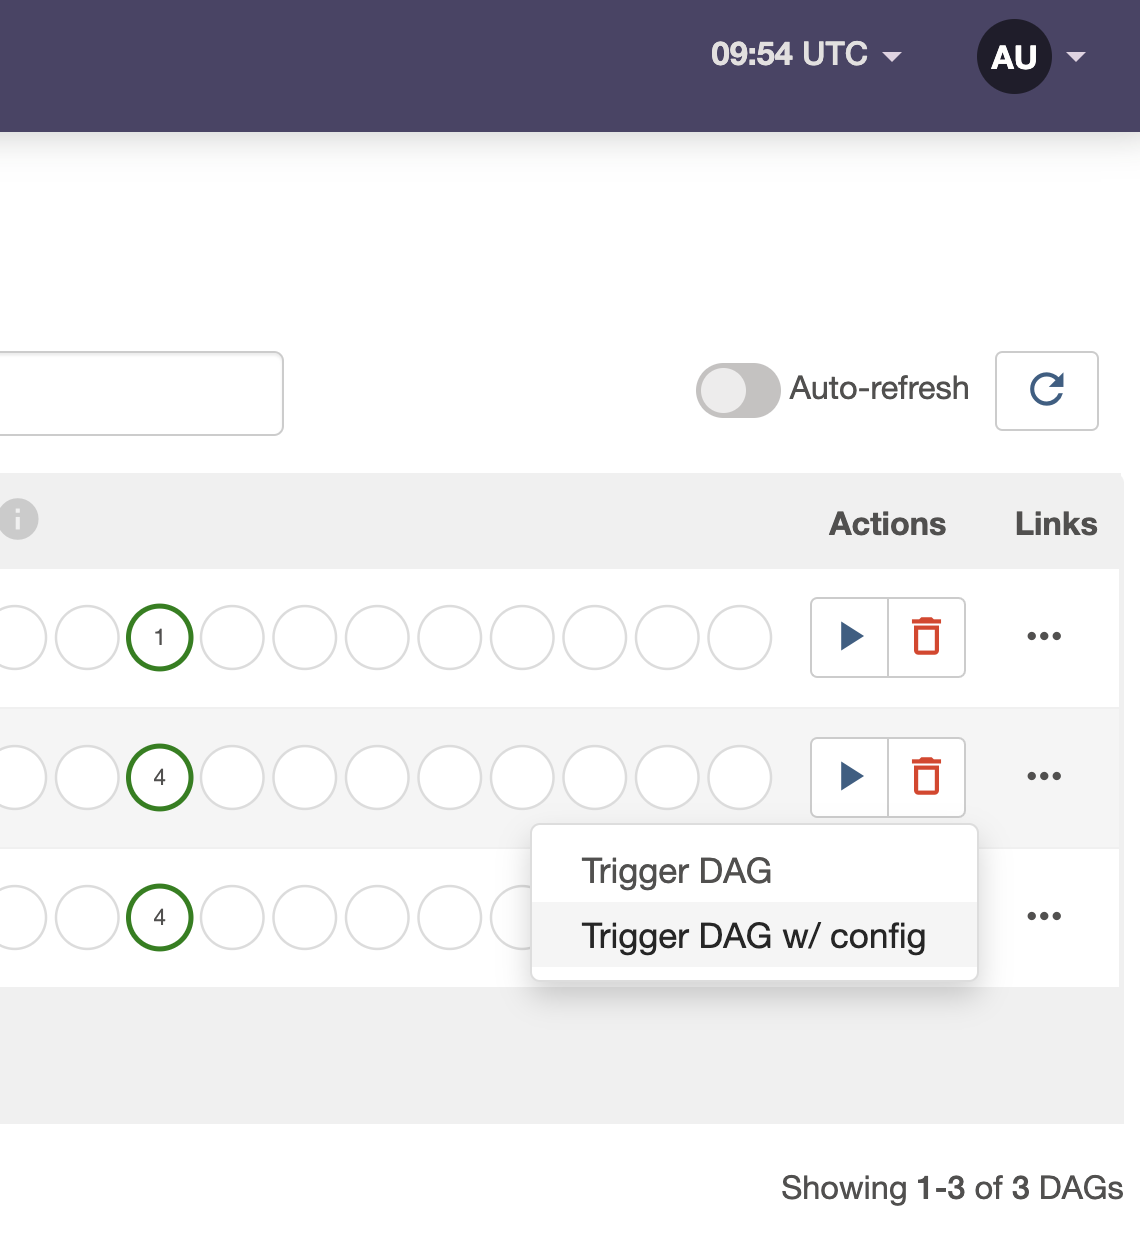
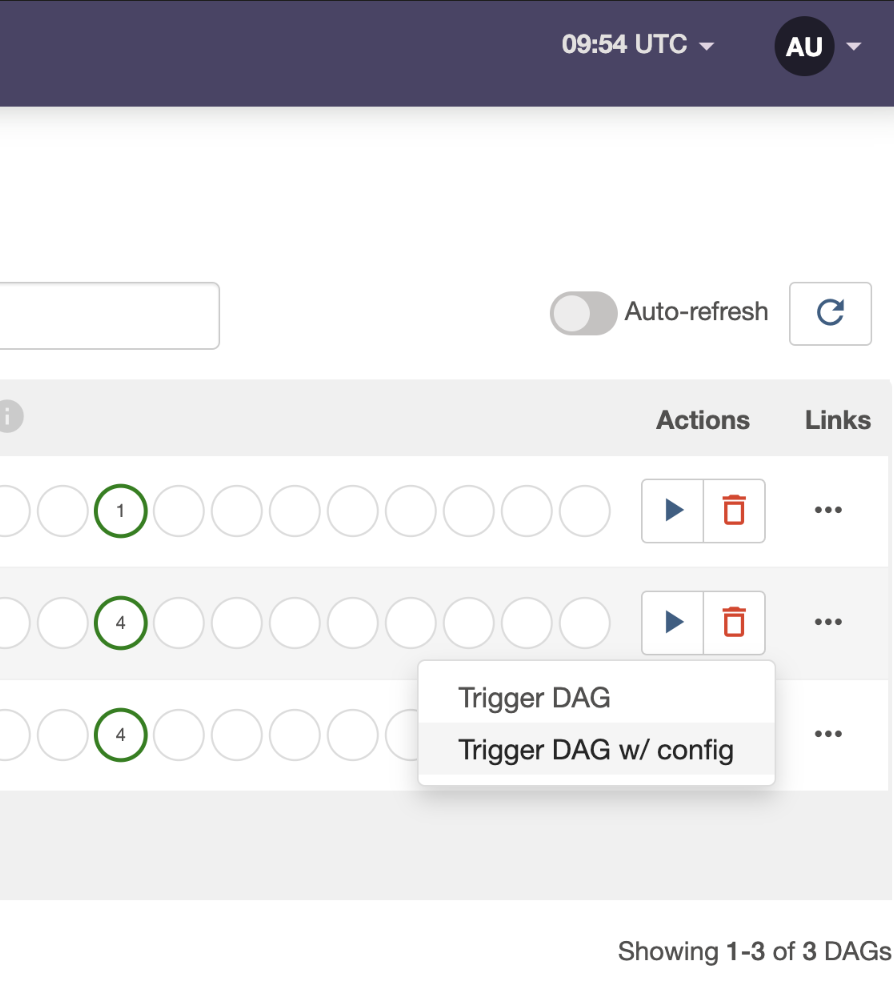
image resize attempt 2

diff --git a/learn/airflow-params.md b/learn/airflow-params.md
@@ -52,7 +52,7 @@ While it's possible to pass non-JSON serializable params, this behavior is depre
 
 You can pass params to a DAG from the Airflow UI by clicking on the Play button and selecting **Trigger DAG w/ config**. 
 
-<img src="/img/guides/airflow-params_trigger_dag_w_config.png" alt="Trigger DAG w/ config" width="100" height="100">
+![Trigger DAG w/ config](/img/guides/airflow-params_trigger_dag_w_config.png)
 
 This button opens a UI in which you can specify details for the DAG run:
 
